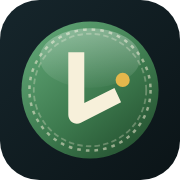
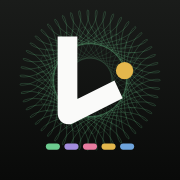
Animația de început și iconița în stilul B+
- Sigla nouă: dală închisă, rozeta de ghioș a bancnotelor abia vizibilă, „L”-ul alb cu piciorul ascendent și punctul de 50 de lei, plus cele cinci benzi în culorile bancnotelor.
- Iconițele (favicon, 192/512, Apple, emailuri) se generează din aceleași forme cu scripts/icons.mts; Android primește o iconiță maskable separată, cu sigla în zona sigură.
- Animația de pe ecranul de autentificare: rozetele se desenează, sigla apare, numele se așază literă cu literă, apoi se trag benzile bancnotelor (~2,5 s, se poate sări, oprită la mișcare redusă).
- Scos codul de bare din componentele aplicației (nu mai era folosit).

diff --git a/src/components/IntroSplash.tsx b/src/components/IntroSplash.tsx
@@ -1,13 +1,20 @@
 "use client";
 
-import { useEffect, useState } from "react";
-import Logo from "./Logo";
-import { Barcode } from "./receipt";
+import { useEffect, useId, useState } from "react";
+import { LogoArt } from "./Logo";
+import { rosette } from "@/lib/rosette";
 
 const BANDS = ["var(--c-leu)", "var(--c-mov)", "var(--c-rosu)", "var(--c-galben)", "var(--c-albastru)"];
+// Rozetele mari din fundal, desenate „cu peniță” la început (calculate o singură dată).
+const RINGS = [
+  rosette(200, 200, 190, { lobes: 60, turns: 17, depth: 0.22, step: 0.02 }),
+  rosette(200, 200, 150, { lobes: 44, turns: 13, depth: 0.3, step: 0.02 }),
+  rosette(200, 200, 112, { lobes: 30, turns: 7, depth: 0.4, step: 0.02 }),
+];
+const WORD = "Leuța";
 // Momentul în care animația începe să se estompeze, apoi dispare cu totul (ms).
-const EXIT_AT = 2800;
-const GONE_AT = 3300;
+const EXIT_AT = 2500;
+const GONE_AT = 2950;
 
 // Animația rulează la fiecare încărcare (sau reîmprospătare) a paginii. Momentul pornirii se reține
 // la nivel de modul, deci o singură dată per încărcare: în dezvoltare React montează componentele de
@@ -23,15 +30,16 @@ function decide(): number {
 }
 
 /**
- * Animația de început de pe ecranul de autentificare: moneda-siglă cade rotindu-se pe o casă de marcat,
- * primește luciul de monedă și intră în fantă; din fantă se tipărește apoi un bon cu numele aplicației,
- * benzile în culorile bancnotelor (1, 5, 10, 50, 100 lei) și un cod de bare. Se vede la fiecare încărcare
- * a paginii, se poate sări cu o atingere și nu rulează deloc dacă sistemul cere mișcare redusă.
+ * Animația de început de pe ecranul de autentificare, ca tiparul unei bancnote: rozetele de ghioș se
+ * desenează din peniță, sigla apare în mijlocul lor, numele se așază literă cu literă, iar dedesubt
+ * se trag, una după alta, benzile în culorile bancnotelor (1, 5, 10, 50, 100 lei). Durează ~2,5 s,
+ * se poate sări cu o atingere și nu rulează deloc dacă sistemul cere mișcare redusă.
  */
 export default function IntroSplash() {
   // Pornește vizibilă, ca formularul să nu apară o clipă înaintea ei; efectul de mai jos o ascunde
   // imediat dacă sistemul cere mișcare redusă.
   const [phase, setPhase] = useState<"play" | "exit" | "gone">("play");
+  const id = useId().replace(/:/g, "");
 
   useEffect(() => {
     const start = decide();
@@ -57,43 +65,38 @@ export default function IntroSplash() {
 
   return (
     <div
-      className={`intro-splash fixed inset-0 z-200 flex cursor-pointer select-none flex-col items-center justify-center bg-paper ${phase === "exit" ? "intro-exit" : ""}`}
+      className={`intro-splash fixed inset-0 z-200 flex cursor-pointer select-none flex-col items-center justify-center overflow-hidden bg-paper ${phase === "exit" ? "intro-exit" : ""}`}
       onClick={skip}
       role="presentation"
       aria-hidden
     >
-      <div className="guilloche guilloche-full intro-backdrop absolute inset-0" />
+      {/* Rozetele, centrate pe siglă */}
+      <svg viewBox="0 0 400 400" className="intro-rings pointer-events-none absolute left-1/2 top-1/2 h-[min(118vw,640px)] w-[min(118vw,640px)] text-leu">
+        {RINGS.map((d, i) => (
+          <path key={i} d={d} pathLength={1} className="intro-ring" style={{ animationDelay: `${i * 120}ms`, opacity: 0.32 - i * 0.06 }} fill="none" stroke="currentColor" strokeWidth={0.5} />
+        ))}
+      </svg>
 
       <div className="relative flex flex-col items-center">
-        {/* Moneda: cade rotindu-se, o trece o lumină, apoi intră în fantă */}
-        <div className="intro-coin-insert relative z-1">
-          <div className="intro-coin relative h-24 w-24 sm:h-28 sm:w-28">
-            <Logo className="h-full w-full" />
-            <span className="absolute inset-0 overflow-hidden rounded-full">
-              <span className="intro-shine" />
+        <svg viewBox="0 0 64 64" className="intro-mark h-[88px] w-[88px] drop-shadow-[0_14px_28px_rgb(0_0_0/0.22)] sm:h-24 sm:w-24">
+          <LogoArt id={id} />
+        </svg>
+
+        <div className="mt-6 flex text-[44px] font-semibold leading-none tracking-[-0.05em] text-ink sm:text-[52px]">
+          {[...WORD].map((ch, i) => (
+            <span key={i} className="intro-letter inline-block" style={{ animationDelay: `${620 + i * 55}ms` }}>
+              {ch}
             </span>
-          </div>
+          ))}
         </div>
 
-        {/* Fanta casei de marcat */}
-        <span className="intro-slot relative z-2 block h-3 w-64 rounded-full bg-[#14120f] ring-1 ring-line-strong/60 sm:w-72" />
-
-        {/* Bonul tipărit din fantă */}
-        <div className="-mt-1.5 w-56 overflow-hidden px-3 pb-3 sm:w-64">
-          <div className="intro-paper panel mt-0! px-4 pb-4 pt-5 text-center font-mono">
-            <div className="text-[34px] font-bold leading-none tracking-[-0.04em] text-ink sm:text-[38px]">Leuța</div>
-            <div className="mt-2 whitespace-nowrap text-[10px] uppercase tracking-[0.06em] text-ink-soft">Bugetul tău, ban cu ban</div>
-            <div className="rule-dashed my-3" />
-            <div className="flex justify-center gap-1">
-              {BANDS.map((c) => (
-                <span key={c} className="h-1.5 w-7 rounded-full" style={{ background: c }} />
-              ))}
-            </div>
-            <div className="rule-dashed my-3" />
-            <Barcode seed="Leuța" className="mx-auto h-8 w-40 text-ink" />
-            <div className="mt-1.5 text-[9.5px] tracking-[0.22em] text-ink-faint" suppressHydrationWarning>LEU 0001 {new Date().getFullYear()}</div>
-          </div>
+        <div className="mt-4 flex gap-1.5">
+          {BANDS.map((c, i) => (
+            <span key={c} className="intro-band h-1 w-8 rounded-full" style={{ background: c, animationDelay: `${1000 + i * 80}ms` }} />
+          ))}
         </div>
+
+        <div className="intro-tag mt-4 text-[13px] text-ink-soft">Bugetul tău, ban cu ban</div>
       </div>
 
       <span className="intro-hint absolute bottom-[max(1.5rem,env(safe-area-inset-bottom))] text-[12px] text-ink-faint">

diff --git a/src/app/(app)/globals.css b/src/app/(app)/globals.css
@@ -471,42 +471,30 @@
 }
 
 /*
- * Animația de început (ecranul de autentificare, IntroSplash.tsx). Durează ~2,8 s:
- * moneda cade rotindu-se pe casa de marcat (0–0,9 s), luciul o traversează, moneda intră în fantă
- * (1,15–1,5 s), apoi bonul iese din fantă rând cu rând (1,4–2,25 s), după care totul se estompează.
- * Perspectiva e în `transform` (perspective()), ca rotirea 3D să meargă și sub clip-path.
+ * Animația de început (ecranul de autentificare, IntroSplash.tsx). Durează ~2,5 s:
+ * rozetele de ghioș se desenează (0–1,4 s), sigla apare (0,15–0,75 s), literele numelui urcă pe rând
+ * (0,6–1,1 s), benzile bancnotelor se trag una după alta (1–1,5 s), apoi apare deviza și totul se estompează.
  */
-@keyframes introCoinDrop {
-  0% { transform: perspective(700px) translateY(-46vh) rotateY(0deg) scale(0.6); opacity: 0; }
-  12% { opacity: 1; }
-  62% { transform: perspective(700px) translateY(0) rotateY(900deg) scale(1); }
-  76% { transform: perspective(700px) translateY(-14px) rotateY(1035deg) scale(1); }
-  90% { transform: perspective(700px) translateY(0) rotateY(1080deg) scale(1); }
-  95% { transform: perspective(700px) translateY(-3px) rotateY(1080deg) scale(1); }
-  100% { transform: perspective(700px) translateY(0) rotateY(1080deg) scale(1); opacity: 1; }
+@keyframes introDraw {
+  0% { stroke-dashoffset: 1; }
+  100% { stroke-dashoffset: 0; }
 }
-@keyframes introShine {
-  0% { transform: translateX(-130%) rotate(20deg); opacity: 0; }
-  20% { opacity: 1; }
-  100% { transform: translateX(130%) rotate(20deg); opacity: 0; }
+@keyframes introRings {
+  0% { transform: translate(-50%, -58%) rotate(-24deg) scale(0.94); }
+  100% { transform: translate(-50%, -58%) rotate(0deg) scale(1); }
 }
-/* Coboară în fantă: pe măsură ce alunecă în jos, partea de sub fantă e tăiată. */
-@keyframes introInsert {
-  0% { transform: none; clip-path: inset(-40% -40% 0 -40%); }
-  100% { transform: translateY(100%); clip-path: inset(-40% -40% 100% -40%); }
+@keyframes introMark {
+  0% { opacity: 0; transform: translateY(10px) scale(0.86); }
+  60% { opacity: 1; }
+  100% { opacity: 1; transform: none; }
 }
-@keyframes introSlot {
-  0%, 100% { box-shadow: inset 0 2px 3px rgb(0 0 0 / 0.5); }
-  50% { box-shadow: inset 0 2px 3px rgb(0 0 0 / 0.5), 0 0 14px rgb(var(--galben) / 0.55); }
+@keyframes introLetter {
+  0% { opacity: 0; transform: translateY(0.45em); }
+  100% { opacity: 1; transform: none; }
 }
-/* Hârtia iese în trepte, ca la o imprimantă termică. */
-@keyframes introPrint {
-  0% { transform: translateY(-101%); }
-  28% { transform: translateY(-72%); }
-  34% { transform: translateY(-70%); }
-  60% { transform: translateY(-38%); }
-  66% { transform: translateY(-36%); }
-  100% { transform: none; }
+@keyframes introBand {
+  0% { transform: scaleX(0); }
+  100% { transform: scaleX(1); }
 }
 @keyframes introFade {
   0% { opacity: 0; transform: translateY(6px); }
@@ -514,22 +502,16 @@
 }
 @keyframes introExit {
   0% { opacity: 1; transform: none; }
-  100% { opacity: 0; transform: scale(1.04); }
+  100% { opacity: 0; transform: scale(1.03); }
 }
 
 .intro-splash.intro-exit { animation: introExit 450ms cubic-bezier(0.4, 0, 0.2, 1) forwards; pointer-events: none; }
-.intro-backdrop { animation: introFade 600ms ease-out both; }
-.intro-coin { animation: introCoinDrop 950ms cubic-bezier(0.22, 0.8, 0.3, 1) both; }
-.intro-coin-insert { animation: introInsert 360ms cubic-bezier(0.5, 0, 0.75, 0.4) 1150ms both; }
-.intro-slot { animation: introSlot 600ms ease-in-out 1300ms both; }
-.intro-shine {
-  position: absolute;
-  inset: -20%;
-  background: linear-gradient(90deg, rgb(255 255 255 / 0) 35%, rgb(255 255 255 / 0.55) 50%, rgb(255 255 255 / 0) 65%);
-  animation: introShine 550ms ease-in-out 850ms both;
-  pointer-events: none;
-}
-.intro-paper { animation: introPrint 850ms cubic-bezier(0.3, 0.5, 0.4, 1) 1420ms both; }
+.intro-rings { animation: introRings 2400ms cubic-bezier(0.2, 0.7, 0.2, 1) both; }
+.intro-ring { stroke-dasharray: 1; animation: introDraw 1400ms cubic-bezier(0.45, 0.05, 0.25, 1) both; }
+.intro-mark { animation: introMark 600ms cubic-bezier(0.2, 0.8, 0.25, 1) 150ms both; }
+.intro-letter { animation: introLetter 520ms cubic-bezier(0.2, 0.8, 0.25, 1) both; }
+.intro-band { transform-origin: left; animation: introBand 360ms cubic-bezier(0.3, 0.7, 0.3, 1) both; }
+.intro-tag { animation: introFade 500ms ease-out 1450ms both; }
 .intro-hint { animation: introFade 500ms ease-out 1300ms both; }
 
 @media (prefers-reduced-motion: reduce) {

diff --git a/src/components/Logo.tsx b/src/components/Logo.tsx
@@ -1,38 +1,50 @@
 "use client";
 
 import { useId } from "react";
+import { NOTE_BRIGHT, rosette } from "@/lib/rosette";
+
+// Trasee calculate o singură dată (sigla apare des, la mărimi mici).
+const RINGS = [rosette(32, 28.5, 25, { lobes: 40, turns: 11, depth: 0.32, step: 0.05 }), rosette(32, 28.5, 19, { lobes: 30, turns: 7, depth: 0.42, step: 0.05 })];
 
 /**
- * Sigla Leuța: o monedă verde (bancnota de 1 leu) cu chenar guilloche — liniile fine de pe bancnote —
- * și un „L” al cărui picior urcă, ca un grafic care crește.
+ * Sigla Leuța: o dală închisă, cu rozeta de ghioș a bancnotelor abia vizibilă în fundal, un „L”
+ * al cărui picior urcă (ca un grafic care crește) și, dedesubt, cele cinci benzi în culorile bancnotelor.
+ * `tile={false}` o desenează fără colțuri rotunjite (pentru iconițele pe care sistemul le decupează singur).
  */
-export default function Logo({ className = "h-10 w-10" }: { className?: string }) {
+export default function Logo({ className = "h-10 w-10", tile = true }: { className?: string; tile?: boolean }) {
   const id = useId().replace(/:/g, "");
   return (
     <svg viewBox="0 0 64 64" className={className} role="img" aria-label="Leuța">
+      <LogoArt id={id} tile={tile} />
+    </svg>
+  );
+}
+
+/** Conținutul siglei (fără `<svg>`), refolosit și de animația de început. */
+export function LogoArt({ id, tile = true }: { id: string; tile?: boolean }) {
+  return (
+    <>
       <defs>
-        <linearGradient id={`${id}g`} x1="10" y1="6" x2="54" y2="60" gradientUnits="userSpaceOnUse">
-          <stop offset="0" stopColor="#5FA374" />
-          <stop offset="0.55" stopColor="#3D7A4E" />
-          <stop offset="1" stopColor="#24502F" />
-        </linearGradient>
-        <linearGradient id={`${id}s`} x1="32" y1="2" x2="32" y2="34" gradientUnits="userSpaceOnUse">
-          <stop offset="0" stopColor="#FFFFFF" stopOpacity="0.35" />
-          <stop offset="1" stopColor="#FFFFFF" stopOpacity="0" />
+        <linearGradient id={`${id}bg`} x1="0" y1="0" x2="0" y2="64" gradientUnits="userSpaceOnUse">
+          <stop offset="0" stopColor="#1A1C1A" />
+          <stop offset="1" stopColor="#090A09" />
         </linearGradient>
       </defs>
-      <circle cx="32" cy="32" r="30" fill={`url(#${id}g)`} />
-      {/* chenar guilloche: două inele punctate decalate */}
-      <circle cx="32" cy="32" r="26.5" fill="none" stroke="#F3EBD3" strokeOpacity="0.55" strokeWidth="1.1" strokeDasharray="1.6 2.2" />
-      <circle cx="32" cy="32" r="24.6" fill="none" stroke="#F3EBD3" strokeOpacity="0.3" strokeWidth="0.8" strokeDasharray="2.4 1.4" />
-      {/* lumină de monedă */}
-      <ellipse cx="32" cy="18" rx="22" ry="13" fill={`url(#${id}s)`} />
-      {/* „L” cu piciorul ascendent */}
-      <path
-        d="M22.5 15.5h7v22.2l13.2-6.6 2.9 6.3-17.6 8.9c-2.6 1.3-5.5-.6-5.5-3.5V15.5z"
-        fill="#F7F0DA"
-      />
-      <circle cx="46.3" cy="27.6" r="3.1" fill="#E4B74C" />
-    </svg>
+      <rect width="64" height="64" rx={tile ? 14 : 0} fill={`url(#${id}bg)`} />
+      {tile && <rect x="0.4" y="0.4" width="63.2" height="63.2" rx="13.6" fill="none" stroke="#FFFFFF" strokeOpacity="0.09" strokeWidth="0.8" />}
+      <g fill="none" stroke={NOTE_BRIGHT[0]} strokeWidth="0.25">
+        <path d={RINGS[0]} strokeOpacity="0.3" />
+        <path d={RINGS[1]} strokeOpacity="0.18" />
+      </g>
+      {/* „L” cu piciorul ascendent și punctul galben (50 de lei) */}
+      <g transform="translate(-2 -2.5)">
+        <path d="M22.5 15.5h7v22.2l13.2-6.6 2.9 6.3-17.6 8.9c-2.6 1.3-5.5-.6-5.5-3.5V15.5z" fill="#FAFAF9" />
+        <circle cx="46.3" cy="27.6" r="3.1" fill={NOTE_BRIGHT[3]} />
+      </g>
+      {/* benzile bancnotelor: 1, 5, 10, 50, 100 lei */}
+      {NOTE_BRIGHT.map((c, i) => (
+        <rect key={c} x={16.3 + i * 6.6} y="51" width="5" height="2.2" rx="1.1" fill={c} />
+      ))}
+    </>
   );
 }

diff --git a/src/lib/rosette.ts b/src/lib/rosette.ts
@@ -1,0 +1,21 @@
+/**
+ * Rozeta de ghioș (guilloche) de pe bancnote, ca traseu SVG: o curbă hipotrohoidă închisă.
+ * `lobes` / `turns` dau numărul de petale și de câte ori se rotește curba până se închide;
+ * `depth` cât de adânci sunt petalele. Rezultatul e determinist (același pe server și în browser).
+ */
+export function rosette(cx: number, cy: number, outer: number, { lobes = 24, turns = 7, depth = 0.55, step = 0.03 } = {}) {
+  const a = outer / (1 + depth); // R − r
+  const d = depth * a;
+  const k = lobes / turns; // (R − r) / r
+  const end = Math.PI * 2 * turns;
+  let path = "";
+  for (let t = 0; t <= end + step / 2; t += step) {
+    const x = cx + a * Math.cos(t) + d * Math.cos(k * t);
+    const y = cy + a * Math.sin(t) - d * Math.sin(k * t);
+    path += `${path ? "L" : "M"}${x.toFixed(2)} ${y.toFixed(2)}`;
+  }
+  return path + "Z";
+}
+
+/** Culorile bancnotelor (1, 5, 10, 50, 100 lei), în varianta luminoasă, pentru siglă și iconițe. */
+export const NOTE_BRIGHT = ["#6CCB8F", "#A38DDE", "#E87CA0", "#E4B74C", "#6EA4DC"];

diff --git a/src/components/receipt.tsx b/src/components/receipt.tsx
@@ -1,24 +1,11 @@
 "use client";
 
 import type { ReactNode } from "react";
-import { barcodeBars } from "@/lib/barcode";
 
 /**
  * Piesele „de bon” folosite în toată aplicația (același stil ca bonul lunar în PDF):
- * rândul cu puncte între etichetă și sumă, codul de bare decorativ și antetul cu numărul bonului.
+ * rândul cu puncte între etichetă și sumă.
  */
-
-/** Cod de bare decorativ (nu codifică nimic), desenat în culoarea textului. */
-export function Barcode({ seed, className = "h-9 w-52" }: { seed: string; className?: string }) {
-  const W = 200;
-  return (
-    <svg viewBox={`0 0 ${W} 40`} preserveAspectRatio="none" className={className} aria-hidden>
-      {barcodeBars(seed, W).map((b, i) => (
-        <rect key={i} x={b.x} y={0} width={b.w} height={40} fill="currentColor" />
-      ))}
-    </svg>
-  );
-}
 
 /**
  * Rând de bon: eticheta în stânga, valoarea în dreapta, legate prin puncte.

diff --git a/src/components/site/Header.tsx b/src/components/site/Header.tsx
@@ -35,7 +35,7 @@ export default function Header({ home = true }: { home?: boolean }) {
     <header className={`fixed inset-x-0 top-0 z-50 transition-[background-color,box-shadow] duration-300 ${scrolled ? "bg-paper/90 shadow-[0_1px_0_rgb(var(--line))] backdrop-blur-sm" : ""}`}>
       <div className="mx-auto flex h-16 max-w-6xl items-center gap-3 px-4 sm:px-6">
         <Link href="/" className="flex items-center gap-2.5" aria-label="Leuța, pagina principală">
-          <img src="/icon-192.png" alt="" width={34} height={34} className="rounded-full" />
+          <img src="/icon-192.png" alt="" width={34} height={34} className="rounded-[9px]" />
           <span className="text-[19px] font-bold tracking-tight">Leuța</span>
         </Link>
         <nav className="ml-auto hidden items-center gap-1 text-[14px] text-ink-soft md:flex" aria-label="Secțiuni">

diff --git a/src/components/site/Footer.tsx b/src/components/site/Footer.tsx
@@ -8,7 +8,7 @@ export default function Footer() {
       <div className="mx-auto grid max-w-6xl gap-8 px-4 py-12 text-[13.5px] text-ink-soft sm:px-6 md:grid-cols-[1.3fr_1fr_1fr]">
         <div>
           <div className="flex items-center gap-2.5">
-            <img src="/icon-192.png" alt="" width={30} height={30} className="rounded-full" />
+            <img src="/icon-192.png" alt="" width={30} height={30} className="rounded-[8px]" />
             <span className="text-[17px] font-bold text-ink">Leuța</span>
           </div>
           <p className="mt-3 max-w-xs">{SITE.tagline} Bugetul lunar, creditele și economiile tale, ban cu ban.</p>

diff --git a/src/app/manifest.ts b/src/app/manifest.ts
@@ -14,7 +14,7 @@ export default function manifest(): MetadataRoute.Manifest {
     icons: [
       { src: "/icon-192.png", sizes: "192x192", type: "image/png" },
       { src: "/icon-512.png", sizes: "512x512", type: "image/png" },
-      { src: "/icon-512.png", sizes: "512x512", type: "image/png", purpose: "maskable" },
+      { src: "/icon-maskable-512.png", sizes: "512x512", type: "image/png", purpose: "maskable" },
     ],
     // Ținând apăsat pe iconița aplicației (pe Android): adaugi direct o intrare (în vacanță, la vacanța în curs).
     shortcuts: [
